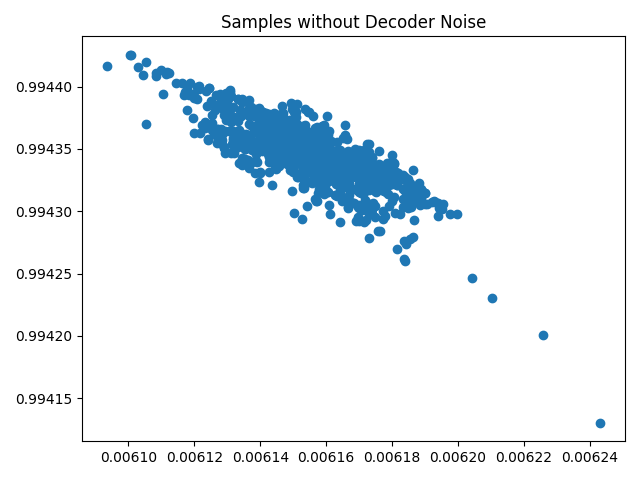
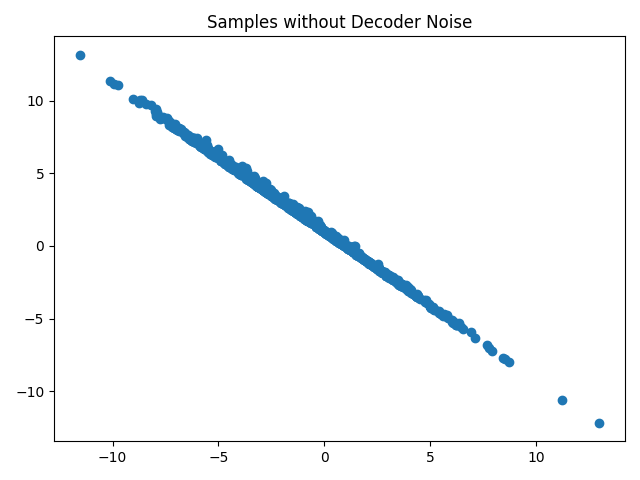
:bug: (vae): use reparametrizer in encoder too
the encoder's output is also a distribution

diff --git a/hw1/vae.py b/hw1/vae.py
@@ -7,6 +7,7 @@ import torch
 import torch.nn as nn
 import torch.utils.data as data
 import utils
+import math
 
 def train(model, train_loader, optimizer, epoch, quiet, grad_clip=None):
     """Train the model for one epoch.
@@ -98,6 +99,35 @@ def train_epochs(model, train_loader, test_loader, args, quiet=False):
     return train_losses, test_losses
 
 
+class MLP(nn.Module):
+    """MLP subclasses inherited from torch.nn.Module.
+    """
+
+    def __init__(self, input_dim, output_dim, hidden_dims):
+        super().__init__()
+
+        if isinstance(input_dim, int):
+            input_dim = (input_dim,)
+        if isinstance(output_dim, int):
+            output_dim = (output_dim,)
+
+        self.input_dim = input_dim
+        self.output_dim = output_dim
+        self.hidden_dims = hidden_dims
+
+        model = []
+        prev_h = np.prod(input_dim)
+        for h in hidden_dims + [np.prod(output_dim)]:
+            model.append(nn.Linear(prev_h, h))
+            model.append(nn.ReLU())
+            prev_h = h
+        model.pop()
+        self.net = nn.Sequential(*model)
+
+    def forward(self, x):
+        b = x.shape[0]
+        x = x.view(b, -1)
+        return self.net(x).view(b, *self.output_dim)
 
 class FullyConnectedVAE(nn.Module):
     """VAE with only fully connected layers.
@@ -105,20 +135,9 @@ class FullyConnectedVAE(nn.Module):
 
     def __init__(self, input_dim, latent_dim, enc_hidden_dims, dec_hidden_dims):
         super().__init__()
-        self.input_dim=input_dim
         self.latent_dim = latent_dim
-        self.encoder=nn.Sequential(
-            nn.Linear(input_dim,enc_hidden_dims),
-            nn.ReLU(),
-            nn.Linear(enc_hidden_dims,2*latent_dim),
-        )
-        
-        self.decoder = nn.Sequential(
-            nn.Linear(latent_dim,dec_hidden_dims),
-            nn.ReLU(),
-            nn.Linear(dec_hidden_dims,input_dim),
-            nn.Sigmoid()
-        )
+        self.encoder = MLP(input_dim, 2 * latent_dim, enc_hidden_dims)
+        self.decoder = MLP(latent_dim, 2 * input_dim, dec_hidden_dims)
 
     def loss(self, x):
         # TODO
@@ -126,29 +145,42 @@ class FullyConnectedVAE(nn.Module):
         batch_size=x.shape[0]
         x=x.view(batch_size,-1)
         mu, log_std = self.encoder(x).chunk(2, dim=1)
-        sampled_z = self.reparametrizer(mu,log_std)
-        x_hat = self.decoder(sampled_z)
-        # print(x,x_hat)
-        reconstruction_function = nn.MSELoss()
-        recon_loss=reconstruction_function(x_hat,x)
-        kl_loss=- 0.5 * torch.sum(1 + log_std - mu.pow(2) - log_std.exp())
+        sample_z=self.reparametrizer(mu,log_std)
+        mu_x,log_std_x=self.decoder(sample_z).chunk(2, dim=1)
+        sample_x = self.reparametrizer(mu,log_std)
+        recon_loss = (0.5*np.log(2*math.pi)+log_std_x+((x-mu_x).pow(2))/(2*(log_std_x.exp().pow(2)))).sum()
+        kl_loss=(- 0.5 * torch.sum(1 + 2*log_std - mu.pow(2) - log_std.exp().pow(2))).sum()
         return OrderedDict(loss=recon_loss + kl_loss, recon_loss=recon_loss, kl_loss=kl_loss)
 
-    def reparametrizer(self,mu,log_std):
-        sigma=torch.exp(log_std*0.5)
-        eps=torch.randn_like(sigma)
-        return mu+sigma*eps
-    
     def sample(self, n, noise=True):
         with torch.no_grad():
-            z = torch.randn(n, self.input_dim).to(device)
-            mu, log_std = self.encoder(z).chunk(2, dim=1)
+            z = torch.randn(n, self.latent_dim).to(device)
+            mu, log_std = self.decoder(z).chunk(2, dim=1)
             if noise:
                 z = torch.randn_like(mu) * log_std.exp() + mu
             else:
                 z = mu
-            z=self.decoder(z)
         return z.to(device).numpy()
+
+    # def loss(self, x):
+    #     # TODO
+    #     # perform forward propagation and calculate loss
+    #     batch_size=x.shape[0]
+    #     x=x.view(batch_size,-1)
+    #     mu, log_std = self.encoder(x).chunk(2, dim=1)
+    #     sampled_z = self.reparametrizer(mu,log_std)
+    #     x_hat = self.decoder(sampled_z)
+    #     # print(x,x_hat)
+    #     reconstruction_function = nn.MSELoss()
+    #     recon_loss=reconstruction_function(x_hat,x)
+    #     kl_loss=- 0.5 * torch.sum(1 + log_std - mu.pow(2) - log_std.exp())
+    #     return OrderedDict(loss=recon_loss + kl_loss, recon_loss=recon_loss, kl_loss=kl_loss)
+
+    def reparametrizer(self,mu,log_std):
+        z = torch.randn_like(mu) * log_std.exp() + mu
+        return z
+    
+
 
 
 def train_vae_and_sample(train_data, test_data, args: argparse.Namespace):
@@ -167,7 +199,7 @@ def train_vae_and_sample(train_data, test_data, args: argparse.Namespace):
         - a numpy array of size (1000, 2) of 1000 samples WITHOUT decoder noise, i.e. sample z ~ p(z), x = mu(z).
     """
 
-    model = FullyConnectedVAE(2, 2, 128, 128).to(device)
+    model = FullyConnectedVAE(2, 2, [128, 128], [128, 128]).to(device)
     train_loader = data.DataLoader(train_data, batch_size=args.batch_size, shuffle=True)
     test_loader = data.DataLoader(test_data, batch_size=args.batch_size)
     train_losses, test_losses = train_epochs(model, train_loader, test_loader, args, quiet=True)

diff --git a/hw1/DeepLearning.md b/hw1/DeepLearning.md
@@ -1,0 +1,34 @@
+# DeepLearning
+
+## BatchNorm梯度计算
+
+$L$是损失函数，
+
+$y=\gamma \hat{x} + \beta$
+$$
+\frac{\partial L}{\partial \gamma} =\sum_{i}{\frac{\partial L}{\partial y_{i}}\frac{\partial y_i}{\partial \gamma}} =  \sum_{i}{\frac{\partial L}{\partial y_{i}}\hat{x}_{i}}\\
+\frac{\partial L}{\partial \beta} =\sum_{i}{\frac{\partial L}{\partial y_{i}}\frac{\partial y_i}{\partial \beta}}= \sum_{i}{\frac{\partial L}{\partial y_{i}}}
+$$
+
+## Dropout梯度计算
+
+$$
+x=(x_1,x_2,x_3,\cdots,x_n) \\
+
+\hat{x}=dropout(x) \\
+
+\frac{\part L}{\part x}=\frac{\part L}{\part \hat{x}}\frac{\part \hat{x}}{\part x} \\
+
+\frac{\part \hat{x}}{\part x} = \mathbf{M} \\
+
+\mathbf{M}_j= \left\{
+\begin{aligned}
+0 & , & r_j <p \\
+\frac{1}{1-p} & , & r_j \geq p 
+\end{aligned}
+\right. \\
+
+\frac{\part L}{\part x}=\frac{\part L}{\part \hat{x}}\mathbf{M}
+$$
+
+##
